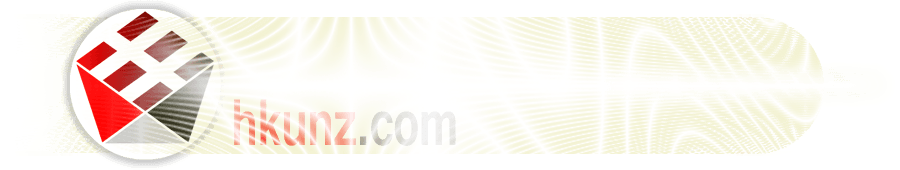
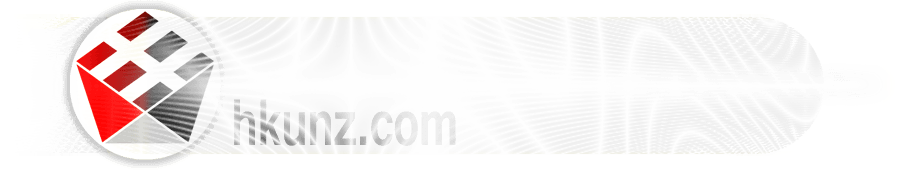
update color scheme

diff --git a/www/css/style.css b/www/css/style.css
@@ -93,7 +93,7 @@ ul.menu li.menuHeader a {text-decoration:none;}
 ul.menu li.menuLeaf {color:#f77;width:100%;display:block;margin-right:10px;}
 ul.menu li.menuLeaf p {font-size:14px;padding-left:10px;}
 ul.menu li.menuLeaf a p:link {color:yellow;}
-ul.menu li.menuLeaf a p:hover {color:#f00;background-color:#F0EFC4;text-decoration:none;}
+ul.menu li.menuLeaf a p:hover {color:#f00;background-color:#EEEEEE;text-decoration:none;}
 ul.menu li.menuLeaf a p:active {}
 ul.menu li.menuLeaf a p:visited {}
 
@@ -107,10 +107,17 @@ caption,th,td {text-align:center;vertical-align:middle;font-weight:normal;}
 blockquote,q {quotes:"" "";}
 blockquote:before,blockquote:after,q:before,q:after {content:"";}
 option,select {min-width:2em;}
-ol li {list-style:decimal;}
-ul li {list-style:disc;}
-ins {text-decoration:none;}
-del {text-decoration:line-through;}
+
+ol {
+	list-style: none;
+	list-style-type:none;
+}
+
+ol li {
+	list-style: none;
+	list-style-type: none;
+	display: list-item;
+}
 
 div.flashContent {margin-left:auto;margin-right:auto;width:450px;height:auto;}
 div.showTell {width:auto;height:auto;margin-left:auto;margin-right:auto;}
@@ -124,7 +131,7 @@ textarea.codeText {font-size:12px;font-weight:normal;font-style:normal;line-heig
 textarea.default {}
 
 #top {width:100%;}
-#top .nav {height:40px;background:url('img/bg/Footer.png') #fff repeat-x;border-bottom:3px solid #fff;}
+#top .nav {height:25px;background:url('img/bg/Footer.png') #fff repeat-x;border-bottom:5px solid #fff;}
 #container {width:100%;background:url('img/bg/TopShade.png') repeat-x;}
 #header {width:100%;background-color:transparent;margin-right;padding-top:10px;}
 #header .headerContent {width:900px;height:170px;background:url('img/header/MainPicture.png');margin:auto;} /*height:142px*/
@@ -186,7 +193,7 @@ textarea.default {}
 
 #footer {width:100%;border-top:3px solid #fff;}
 #footer .content {height:150px;background:url('img/bg/Footer.png') #fff repeat-x;padding-top:10px;}
-#footer .content p {font-size:13px;color:#9B7C18;text-align:center;}
+#footer .content p {font-size:13px;color:#444444;text-align:center;}
 
 /*
 .button {display:block;float:left;clear:left;width:auto;height:30px;background:url('img/buttonR.png') right top no-repeat;padding:0 19px 0 0;line-height:28px;font-weight: normal;font-style: normal;font-family: 'PTSansNarrowRegular', helvetica, arial, sans-serif;font-size-adjust: 0.54;text-transform:uppercase;font-size:14px;text-decoration:none;color:#fff;word-spacing:0px}

diff --git a/www/php/master.inc.php b/www/php/master.inc.php
@@ -14,6 +14,7 @@
 	<meta name="author" content="" />
 	<meta name="rating" content="general" />
 	<meta name="robots" content="all" />
+	<script src="https://apis.google.com/js/platform.js"></script>
 	<!--
 	<link rel="shortcut icon" href="favicon.ico" />
 	<link rel="icon" type="image/gif" href="animated_favicon1.gif" />
@@ -31,14 +32,27 @@
 	?>
 </head>
 <body>
-	<div id="top" name="top">
-		<div id="nav" name="nav" class="nav">
-			<div class="loadingImg" style='width:0px;height:0px;'></div> <!-- Image preloaded -->
+	<div id="fb-root"></div>
+	<script>(
+		function(d, s, id) {
+			var js, fjs = d.getElementsByTagName(s)[0];
+			if (d.getElementById(id)) return;
+			js = d.createElement(s); js.id = id;
+			js.src = "//connect.facebook.net/en_US/sdk.js#xfbml=1&version=v2.6&appId=140396069306658";
+			fjs.parentNode.insertBefore(js, fjs);
+		}(document, 'script', 'facebook-jssdk'));
+	</script>
+	<div id="top" align="right">
+		<div id="nav" class="nav">
+			<div style="display:inline-block;vertical-align:middle">
+				<!-- <div class="fb-follow" data-href="https://www.facebook.com/harrymckenzietv/" data-layout="button" data-size="large" data-show-faces="true"></div>-->
+				<div class="g-ytsubscribe" data-channel="hkunz219" data-layout="default" data-count="default"></div>
+			</div>
 			<p>&nbsp;</p>
 		</div>
 	</div> <!-- [#top] -->
-	<div id="container" name="container">
-		<div id="header" name="header">
+	<div id="container">
+		<div id="header">
 			<div class="headerTop"></div>
 			<div class="headerContent">
 				<div class="left"></div>
@@ -47,10 +61,10 @@
 			</div> <!-- [headerRepeat] -->
 			<div class="headerBottom"></div>
 		</div> <!-- [header] -->
-		<div id="bottomShade" name="bottomShade">
-			<div id="outer" name="outer">
-				<div id="inner" name="inner">
-					<div id="bodyContent" name="bodyContent" class="bodyContent">
+		<div id="bottomShade">
+			<div id="outer">
+				<div id="inner">
+					<div id="bodyContent" class="bodyContent">
 						<div class="bodyMain">
 							<div class="sidebar">
 								<div class="box">
@@ -107,7 +121,7 @@ echo "<li class='menuLeaf'><a href='" . $root . "webnotes/basics/'><p>Basics</p>
 									<div class="right"></div>
 								</div>
 
-								<div id="boxContainer" name="boxContainer" class="center">
+								<div id="boxContainer" class="center">
 									<div class="left">
 										<div class="right">
 											<div class="middle">
@@ -131,9 +145,9 @@ echo "<li class='menuLeaf'><a href='" . $root . "webnotes/basics/'><p>Basics</p>
 				</div> <!-- [#inner] -->
 			</div> <!-- [#outer] -->
 		</div> <!-- [#bottomShade] -->
-		<div id="footer" name="footer">
+		<div id="footer">
 			<div class="content">
-				<p><span class="hkunz">hkunz<span>.com</p>
+				<p><span class="hkunz">hkunz</span><span class="hkunz" style="color:#000;">.com</span></p>
 				<p>Harry Kunz &#169;2016</p>
 				<p>ABN: 72 721 734 033</p>
 			</div>

diff --git a/www/portfolio/spytech/index.php b/www/portfolio/spytech/index.php
@@ -54,12 +54,12 @@
 	<h4 class='heading'>Application Software</h4>
 	<p>The Visual Basic 6 Program is capable of accepting keyboard inputs from the user for robotic control. Not only is the user able to control it through the keys but through mouse over actions as well. Since the software incorporates an SWF file at the right upper side of the GUI, the user may move the mouse over any robotic control and thus control the robot through mouse movement. It depends on the user whether what is more convenient to him to use.</p>
 	<?php echo createImageLightbox("img/spy-software.png", 460); ?>
-	<ul class="block">
-<ol><b>[1]</b> Camera Display</ol>
-<ol><b>[2]</b> Camera Control</ol>
-<ol><b>[2]</b> Robot Directional Control</ol>
-<ol><b>[4]</b> Video Operation</ol>
-	</ul>
+	<ol start="563455345435435435345">
+<li><b>[1]</b> Camera Display</li>
+<li><b>[2]</b> Camera Control</li>
+<li><b>[1]</b> Robot Directional Control</li>
+<li><b>[2]</b> Video Operation</li>
+	</ol>
 	<h4 class='heading'>Team Members</h4>
 	<ul class="block">
 <ol>* Jay Duhaylungsod</ol>
